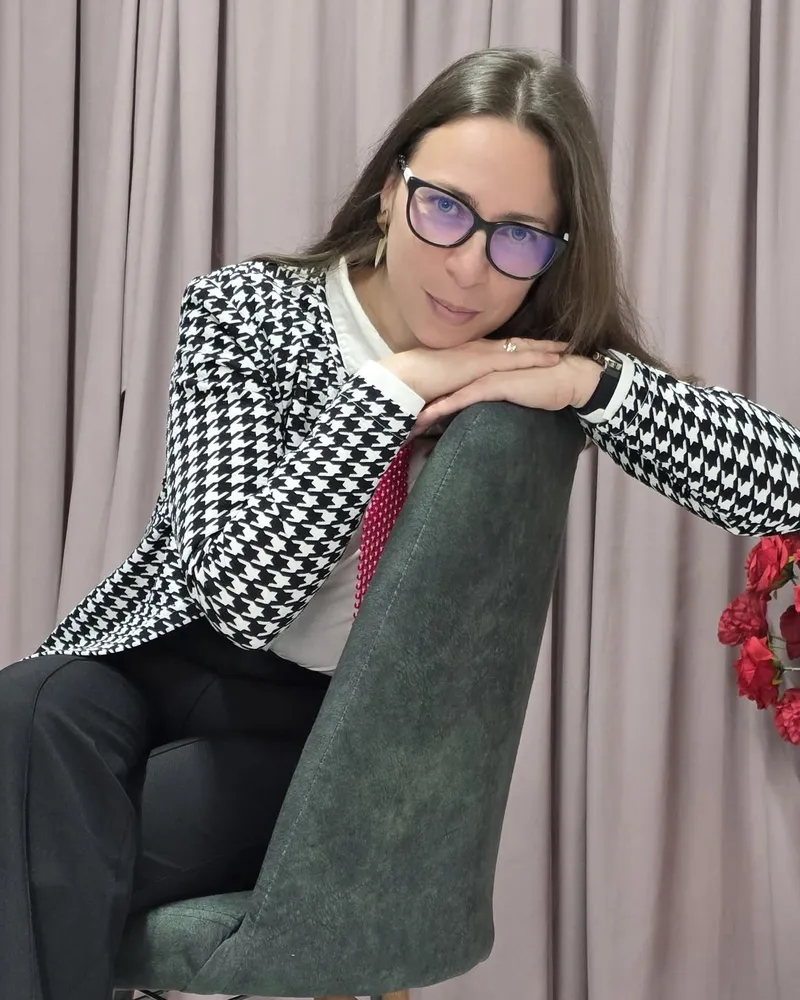
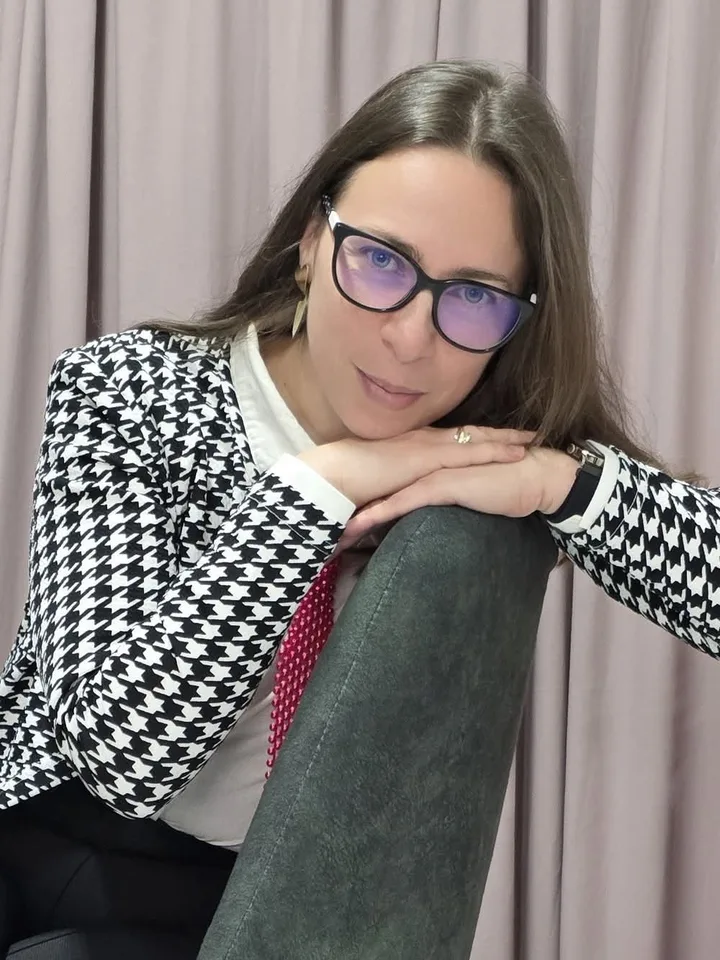
fix: portret hero recadrat pe bust, coloană fixă 320px aliniată la container

diff --git a/css/styles.css b/css/styles.css
@@ -34,8 +34,8 @@ img,svg{max-width:100%;height:auto}ul,ol{padding-left:1.3rem;color:var(--slate)}
 /* hero */
 .hero{background:linear-gradient(135deg,var(--navy) 0%,var(--navy-2) 60%,#1a4a86 100%);color:#fff;padding:56px 0 48px}
 .hero h1{color:#fff;font-size:clamp(1.8rem,3.6vw,2.6rem)}.hero p{color:rgba(255,255,255,.88);font-size:1.15rem;max-width:640px}.hero .eyebrow{color:var(--sun)}
-.hero-grid{display:grid;grid-template-columns:1.25fr .75fr;gap:32px;align-items:center}.hero-sub{font-size:1.1rem}
-.hero-photo img{width:100%;max-width:360px;height:auto;aspect-ratio:4/5;object-fit:cover;border-radius:var(--radius);box-shadow:0 20px 50px rgba(0,0,0,.35);display:block;margin-inline:auto}
+.hero-grid{display:grid;grid-template-columns:minmax(0,1fr) 320px;gap:48px;align-items:center}.hero-sub{font-size:1.1rem}
+.hero-photo{justify-self:end}.hero-photo img{width:320px;height:400px;object-fit:cover;object-position:center top;border-radius:var(--radius);box-shadow:0 20px 50px rgba(0,0,0,.35);display:block;border:4px solid rgba(255,255,255,.12)}
 .section-tight{padding:40px 0 8px}
 .eyebrow{font-weight:700;text-transform:uppercase;letter-spacing:.12em;font-size:.78rem;color:var(--blue);margin:0 0 .6rem}
 .hero-points{display:flex;flex-wrap:wrap;gap:10px 22px;list-style:none;padding:0;margin:1.2rem 0 0;color:rgba(255,255,255,.9);font-size:.95rem}
@@ -78,7 +78,7 @@ section{padding:52px 0}.section-alt{background:var(--bg-soft)}
   .nav-menu{display:none;position:absolute;left:0;right:0;top:68px;background:#fff;border-bottom:1px solid var(--line);flex-direction:column;padding:10px 16px 16px}
   .nav-menu.open{display:flex}.header-wa span{display:none}.header-wa{padding:10px;width:44px;height:44px;flex-shrink:0}.hero .cta-row{padding-right:70px}
   .hero{padding:32px 0 32px}section{padding:40px 0}
-  .hero-grid{grid-template-columns:1fr;gap:20px}.hero-photo{order:-1}.hero-photo img{max-width:220px;aspect-ratio:1;border-radius:50%}.hero h1{font-size:1.75rem}.hero-sub{font-size:1rem}
+  .hero-grid{grid-template-columns:1fr;gap:20px}.hero-photo{order:-1;justify-self:center}.hero-photo img{width:200px;height:200px;border-radius:50%;border-width:3px}.hero h1{font-size:1.75rem}.hero-sub{font-size:1rem}
   .about-photo{float:none;display:block;margin:0 auto 16px;width:min(280px,100%);height:auto;aspect-ratio:4/5}
   .author-box{flex-direction:column;align-items:flex-start}
 }

diff --git a/index.html b/index.html
@@ -194,7 +194,7 @@
       <div class="cta-row"><a href="#asigurari" class="btn btn-primary">Alege asigurarea</a><a href="https://wa.me/40752205206?text=Bun%C4%83%20Marina%2C%20vreau%20informa%C8%9Bii%20despre%20o%20asigurare." class="btn btn-wa" target="_blank" rel="noopener"><svg viewBox="0 0 24 24" width="20" height="20" aria-hidden="true"><path fill="currentColor" d="M12 2a10 10 0 0 0-8.6 15.1L2 22l5-1.3A10 10 0 1 0 12 2zm0 18.2a8.2 8.2 0 0 1-4.2-1.2l-.3-.2-3 .8.8-2.9-.2-.3A8.2 8.2 0 1 1 12 20.2zm4.5-6.1c-.2-.1-1.5-.7-1.7-.8s-.4-.1-.6.1-.6.8-.8 1c-.1.2-.3.2-.5.1a6.7 6.7 0 0 1-3.3-2.9c-.3-.4.3-.4.7-1.3.1-.2 0-.3 0-.5l-.8-1.8c-.2-.5-.4-.4-.6-.4h-.5a1 1 0 0 0-.7.3 3 3 0 0 0-.9 2.2 5.2 5.2 0 0 0 1.1 2.8 12 12 0 0 0 4.6 4c1.7.7 2.1.6 2.8.5a2.4 2.4 0 0 0 1.6-1.1 2 2 0 0 0 .1-1.1c0-.2-.2-.2-.5-.3z"/></svg><span>Scrie-mi pe WhatsApp</span></a></div>
       <ul class="hero-points"><li>✔ Înregistrată la ASF, cod RAF 160354</li><li>✔ În numele Destine Broker (RBK-425)</li><li>✔ Polița ajunge pe e-mail după plată</li><li>✔ Clienți din toată România, online</li></ul>
     </div>
-    <div class="hero-photo"><picture><source media="(max-width:860px)" srcset="assets/marina.webp" /><img src="assets/marina-portret.webp" alt="Marina Metzak, asistent în brokeraj" width="360" height="450" fetchpriority="high" /></picture></div>
+    <div class="hero-photo"><picture><source media="(max-width:860px)" srcset="assets/marina.webp" /><img src="assets/marina-portret.webp" alt="Marina Metzak, asistent în brokeraj" width="320" height="400" fetchpriority="high" /></picture></div>
   </div></section>
   <section id="cine" class="section-tight"><div class="container container-narrow"><p class="eyebrow">Cine sunt</p><h2>Marina Metzak, consultant în asigurări din Iași</h2>
     <p>Pentru polițele RCA, de locuință, călătorie sau sănătate, ai la dispoziție o soluție simplă și rapidă: le poți încheia online, iar polița ajunge direct pe e-mail. Pentru CASCO, asigurări de viață, cele dedicate companiilor sau sectorului agricol, mă poți contacta pe WhatsApp. Compar ofertele mai multor asigurători și îți prezint opțiunile potrivite nevoilor tale, astfel încât să poți lua o decizie informată.</p><p><a href="despre.html">Mai multe despre mine și cum lucrez →</a></p></div></section>

diff --git a/build.py b/build.py
@@ -78,7 +78,7 @@ def render_home():
       <div class="cta-row"><a href="#asigurari" class="btn btn-primary">Alege asigurarea</a><a href="{wa}" class="btn btn-wa" target="_blank" rel="noopener">{T.WA_SVG}<span>Scrie-mi pe WhatsApp</span></a></div>
       <ul class="hero-points">{points}</ul>
     </div>
-    <div class="hero-photo"><picture><source media="(max-width:860px)" srcset="assets/marina.webp" /><img src="assets/marina-portret.webp" alt="Marina Metzak, asistent în brokeraj" width="360" height="450" fetchpriority="high" /></picture></div>
+    <div class="hero-photo"><picture><source media="(max-width:860px)" srcset="assets/marina.webp" /><img src="assets/marina-portret.webp" alt="Marina Metzak, asistent în brokeraj" width="320" height="400" fetchpriority="high" /></picture></div>
   </div></section>
   <section id="cine" class="section-tight"><div class="container container-narrow"><p class="eyebrow">Cine sunt</p><h2>Marina Metzak, consultant în asigurări din Iași</h2>
     <p>{html.escape(HOME['lead'])}</p><p><a href="despre.html">Mai multe despre mine și cum lucrez →</a></p></div></section>
